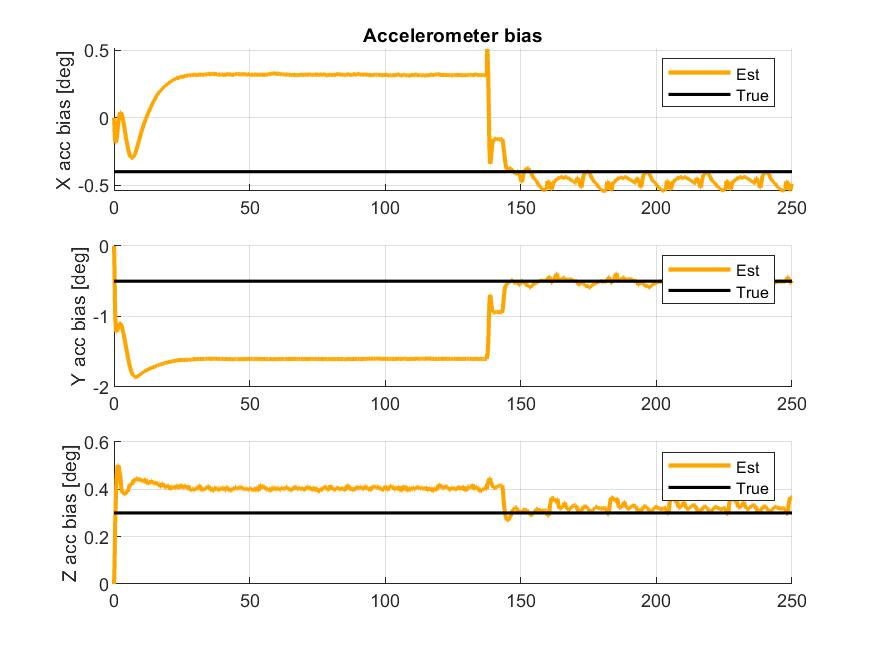
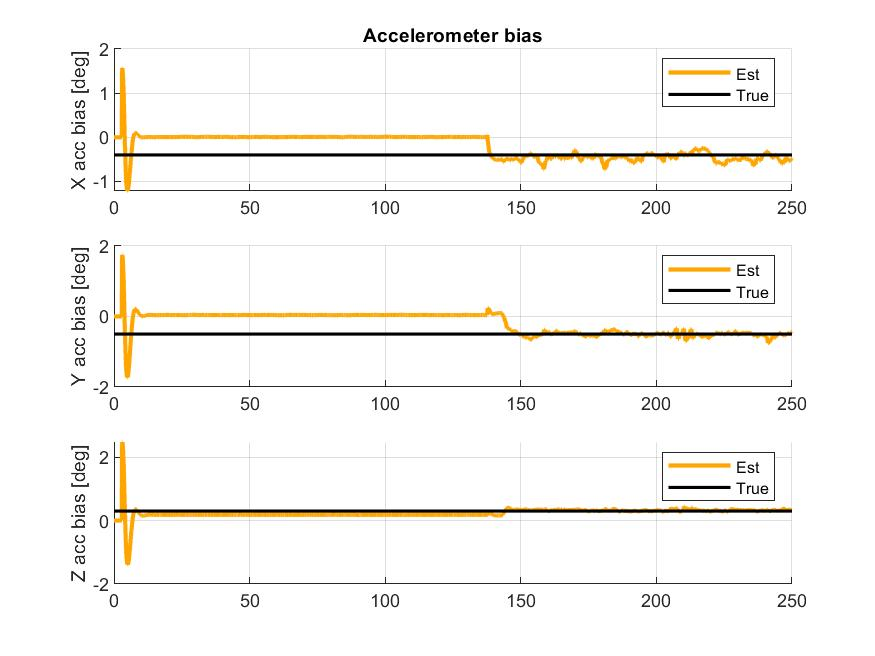
Make function for chi-square test

diff --git a/ESKF/ErrorStateKalman_sola.m b/ESKF/ErrorStateKalman_sola.m
@@ -131,7 +131,6 @@ function [delta_x, E] = ErrorStateKalman_sola(f_b_ins, race_started, r_b_1, r_b_
           H_acc = [Z3  Z3  I3  -Smtrx(R_nb_hat' * g_n_nb)  Z3  Z3];              
 %           H_acc = [Z3  Z3  Z3  Z3  Z3  Z3]; 
 
-          % Ground Speed           
           H_gss_pos = [ 0, 0, 0];
           H_gss_vel = [(R_nb_hat(1,2)*(R_nb_hat(1,2)*v_n_ins(1) + R_nb_hat(2,2)*v_n_ins(2) + R_nb_hat(3,2)*v_n_ins(3) - bars_b_ins(2)*r_b_3(1) + bars_b_ins(1)*r_b_3(3) - omega_b_imu(1)*r_b_3(3) + omega_b_imu(3)*r_b_3(1)) + R_nb_hat(1,1)*(R_nb_hat(1,1)*v_n_ins(1) + R_nb_hat(1,3)*v_n_ins(2) + R_nb_hat(2,3)*v_n_ins(3) + bars_b_ins(2)*r_b_3(2) - bars_b_ins(2)*r_b_3(3) + omega_b_imu(2)*r_b_3(3) - omega_b_imu(3)*r_b_3(2)))/((R_nb_hat(1,2)*v_n_ins(1) + R_nb_hat(2,2)*v_n_ins(2) + R_nb_hat(3,2)*v_n_ins(3) - bars_b_ins(2)*r_b_3(1) + bars_b_ins(1)*r_b_3(3) - omega_b_imu(1)*r_b_3(3) + omega_b_imu(3)*r_b_3(1))^2 + (R_nb_hat(1,1)*v_n_ins(1) + R_nb_hat(1,3)*v_n_ins(2) + R_nb_hat(2,3)*v_n_ins(3) + bars_b_ins(2)*r_b_3(2) - bars_b_ins(2)*r_b_3(3) + omega_b_imu(2)*r_b_3(3) - omega_b_imu(3)*r_b_3(2))^2)^(1/2), (R_nb_hat(2,2)*(R_nb_hat(1,2)*v_n_ins(1) + R_nb_hat(2,2)*v_n_ins(2) + R_nb_hat(3,2)*v_n_ins(3) - bars_b_ins(2)*r_b_3(1) + bars_b_ins(1)*r_b_3(3) - omega_b_imu(1)*r_b_3(3) + omega_b_imu(3)*r_b_3(1)) + R_nb_hat(1,3)*(R_nb_hat(1,1)*v_n_ins(1) + R_nb_hat(1,3)*v_n_ins(2) + R_nb_hat(2,3)*v_n_ins(3) + bars_b_ins(2)*r_b_3(2) - bars_b_ins(2)*r_b_3(3) + omega_b_imu(2)*r_b_3(3) - omega_b_imu(3)*r_b_3(2)))/((R_nb_hat(1,2)*v_n_ins(1) + R_nb_hat(2,2)*v_n_ins(2) + R_nb_hat(3,2)*v_n_ins(3) - bars_b_ins(2)*r_b_3(1) + bars_b_ins(1)*r_b_3(3) - omega_b_imu(1)*r_b_3(3) + omega_b_imu(3)*r_b_3(1))^2 + (R_nb_hat(1,1)*v_n_ins(1) + R_nb_hat(1,3)*v_n_ins(2) + R_nb_hat(2,3)*v_n_ins(3) + bars_b_ins(2)*r_b_3(2) - bars_b_ins(2)*r_b_3(3) + omega_b_imu(2)*r_b_3(3) - omega_b_imu(3)*r_b_3(2))^2)^(1/2), (R_nb_hat(3,2)*(R_nb_hat(1,2)*v_n_ins(1) + R_nb_hat(2,2)*v_n_ins(2) + R_nb_hat(3,2)*v_n_ins(3) - bars_b_ins(2)*r_b_3(1) + bars_b_ins(1)*r_b_3(3) - omega_b_imu(1)*r_b_3(3) + omega_b_imu(3)*r_b_3(1)) + R_nb_hat(2,3)*(R_nb_hat(1,1)*v_n_ins(1) + R_nb_hat(1,3)*v_n_ins(2) + R_nb_hat(2,3)*v_n_ins(3) + bars_b_ins(2)*r_b_3(2) - bars_b_ins(2)*r_b_3(3) + omega_b_imu(2)*r_b_3(3) - omega_b_imu(3)*r_b_3(2)))/((R_nb_hat(1,2)*v_n_ins(1) + R_nb_hat(2,2)*v_n_ins(2) + R_nb_hat(3,2)*v_n_ins(3) - bars_b_ins(2)*r_b_3(1) + bars_b_ins(1)*r_b_3(3) - omega_b_imu(1)*r_b_3(3) + omega_b_imu(3)*r_b_3(1))^2 + (R_nb_hat(1,1)*v_n_ins(1) + R_nb_hat(1,3)*v_n_ins(2) + R_nb_hat(2,3)*v_n_ins(3) + bars_b_ins(2)*r_b_3(2) - bars_b_ins(2)*r_b_3(3) + omega_b_imu(2)*r_b_3(3) - omega_b_imu(3)*r_b_3(2))^2)^(1/2)];
           H_gss_bacc = [0, 0, 0]; 
@@ -142,27 +141,36 @@ function [delta_x, E] = ErrorStateKalman_sola(f_b_ins, race_started, r_b_1, r_b_
           H_gss = [H_gss_pos  H_gss_vel  H_gss_bacc  H_gss_att  H_gss_bars  H_gss_g];
           
           
-          
         std_pos = 2;
-        R_pos = std_pos^2*I3;
+        R_pos1 = std_pos^2*I3;
+        R_pos2 = std_pos^2*I3;
+        R_vec = 20*std_pos^2*I3;
         std_att = 1 * deg2rad;
         R_att = std_att^2*I3;
         std_vel = 1;
-        R_vel = std_vel^2*I3;
+        R_vel = std_vel^2;
         std_acc = 1;
         R_acc = std_acc^2*I3;
-        R = blkdiag(R_pos , R_pos, std_vel^2, 2*R_pos, R_acc);
+        R = blkdiag(R_pos1 , R_pos2, std_vel^2, R_vec, R_acc);
+          
+           % Outlier Rejection
+          [~,H_gnss1] = ChiSquareTest(H_gnss1, P_hat, R_pos1, delta_y(1:3));
+          [~,H_gnss2] = ChiSquareTest(H_gnss2, P_hat, R_pos2, delta_y(4:6));
+          [~,H_gss] = ChiSquareTest(H_gss, P_hat, R_vel, delta_y(7));
+          [~,H_vec] = ChiSquareTest(H_vec, P_hat, R_vec, delta_y(8:10));
+          [~,H_acc] = ChiSquareTest(H_acc, P_hat, R_acc, delta_y(11:13)); 
+          
           
           if (~race_started)
             H = [H_gnss1 ; H_gnss2 ; H_vec ; H_acc];
-            R = blkdiag(R_pos , R_pos, 2*R_pos, R_acc);
+            R = blkdiag(R_pos1 , R_pos2, R_vec, R_acc);
             delta_y(7) = []; % delete gss 
 %             H_gss = zeros(1,18);
 %             H_acc = [Z3  Z3  I3  -Smtrx(R_nb_hat' * g_n_nb)  Z3  -R_nb_hat'];
 %             H_acc = [Z3  Z3  I3  -Smtrx(R_nb_hat' * g_n_nb)  Z3  Z3];    
           else
             H = [H_gnss1 ; H_gnss2 ; H_gss ; H_vec];
-            R = blkdiag(R_pos , R_pos, std_vel^2, 2*R_pos);
+            R = blkdiag(R_pos1 , R_pos2, R_vel, R_vec);
             delta_y(11:13) = []; % delete acc 
           end 
           

diff --git a/ESKF/MESKF_sola.m b/ESKF/MESKF_sola.m
@@ -158,7 +158,7 @@ for k = 1:N
         
         
         % Moving baseline
-        y_vec = R_nb_t * (r_b_2 - r_b_1);
+        y_vec = R_nb_t * (r_b_2 - r_b_1) + 1*randn(1)*[5,1,1]';
         y_vec_hat = R_nb_ins * (r_b_2 - r_b_1);
         
         % Stand-still acceleration
@@ -190,7 +190,7 @@ for k = 1:N
         x_ins(1:9) = x_ins(1:9) + delta_x(1:9);
         x_ins(14:16) = x_ins(14:16) + delta_x(13:15);
         g_n_hat = g_n_hat + delta_x(16:18);
-        disp(delta_x(16:18));
+%         disp(delta_x(16:18));
         h_low = 1/10;
         q_delta_omega = qbuild(delta_x(10:12)/h_low, h_low);
         x_ins(10:13) = quatprod(x_ins(10:13), q_delta_omega);
@@ -233,7 +233,7 @@ plot(time, p_n_nb(3,:),'Color', 'black', 'Linewidth', 1.5);
 ylabel('Z position [m]')
 legend('Est', 'True');
 grid on;
-saveas(gcf,'results_gnss-vec/Position.jpeg')
+saveas(gcf,'results/Position.jpeg')
 
 % POSITION ERROR
 figure(2)
@@ -259,7 +259,7 @@ plot(time, p_n_nb(3,:) - ins_data(3,:) ,'Color', [0.6350, 0.0780, 0.1840], 'Line
 ylabel('Z position [m]')
 legend('Error');
 grid on;
-saveas(gcf,'results_gnss-vec/PositionError.jpeg')
+saveas(gcf,'results/PositionError.jpeg')
 
 
 % VELOCITIES
@@ -289,7 +289,7 @@ plot(time, v_n_nb(3,:),'Color', 'black', 'Linewidth', 1.5);
 ylabel('Z velocity [m]')
 legend('Est', 'True');
 grid on;
-saveas(gcf,'results_gnss-vec/Velocity.jpeg')
+saveas(gcf,'results/Velocity.jpeg')
 
 % VELOCITY ERROR
 figure(4)
@@ -315,7 +315,7 @@ plot(time, v_n_nb(3,:) - ins_data(6,:) ,'Color', [0.6350, 0.0780, 0.1840], 'Line
 ylabel('Z velocity [m/s]')
 legend('Error');
 grid on;
-saveas(gcf,'results_gnss-vec/VelocityError.jpeg')
+saveas(gcf,'results/VelocityError.jpeg')
 
 
 
@@ -346,7 +346,7 @@ plot(time, bacc_b_nb(3,:),'Color', 'black', 'Linewidth', 1.5);
 ylabel('Z acc bias [deg]')
 legend('Est', 'True');
 grid on;
-saveas(gcf,'results_gnss-vec/AccelBiast.jpeg')
+saveas(gcf,'results/AccelBiast.jpeg')
 
 
 % ACCEL BIAS ERROR
@@ -373,7 +373,7 @@ plot(time, bacc_b_nb(3,:) - ins_data(9,:) ,'Color', [0.6350, 0.0780, 0.1840], 'L
 ylabel('Z accel bias [m/s^2]')
 legend('Error');
 grid on;
-saveas(gcf,'results_gnss-vec/AccelBiasError.jpeg')
+saveas(gcf,'results/AccelBiasError.jpeg')
 
 
 
@@ -405,7 +405,7 @@ xlabel('Time [s]');
 ylabel('Yaw angle [deg]')
 legend('Est', 'True');
 grid on;
-saveas(gcf,'results_gnss-vec/Attitude.jpeg')
+saveas(gcf,'results/Attitude.jpeg')
 
 
 % ATTITUDE ERROR
@@ -432,7 +432,7 @@ plot(time, ssa(rad2deg*att_n_nb(3,:) - rad2deg*ins_data(12,:),'deg') ,'Color', [
 ylabel('Yaw angle [deg]')
 legend('Error');
 grid on;
-saveas(gcf,'results_gnss-vec/AttitudeError.jpeg')
+saveas(gcf,'results/AttitudeError.jpeg')
 
 
 
@@ -463,7 +463,7 @@ plot(time, bars_b_nb(3,:),'Color', 'black', 'Linewidth', 1.5);
 ylabel('Yaw bias [deg/s]')
 legend('Est', 'True');
 grid on;
-saveas(gcf,'results_gnss-vec/GyroBias.jpeg')
+saveas(gcf,'results/GyroBias.jpeg')
 
 % GYRA BIAS ERROR
 figure(10)
@@ -489,7 +489,7 @@ plot(time, rad2deg*(bars_b_nb(3,:) - ins_data(15,:)) ,'Color', [0.6350, 0.0780, 
 ylabel('Yaw bias [deg/s]')
 legend('Error');
 grid on;
-saveas(gcf,'results_gnss-vec/GyroBiasError.jpeg')
+saveas(gcf,'results/GyroBiasError.jpeg')
 
 
 % % Accelerometer input
@@ -574,7 +574,7 @@ ylabel('gravity err Z [m/s^2]')
 legend('Estimated');
 grid on;
 
-saveas(gcf,'results_gnss-vec/GravityErrorState.jpeg')
+saveas(gcf,'results/GravityErrorState.jpeg')
 
 % Position map
 figure(14)
@@ -589,4 +589,4 @@ ylabel('X position [m]');
 title('Position Plot');
 legend('True', 'Estimated');
 grid on;
-saveas(gcf,'results_gnss-vec/PositionMap.jpeg')
+saveas(gcf,'results/PositionMap.jpeg')

diff --git a/ESKF/ChiSquareTest.m b/ESKF/ChiSquareTest.m
@@ -1,0 +1,27 @@
+function [isOutlier,H_out] = ChiSquareTest(H_in,P_hat, R, delta_y)
+%CHISQUARETEST Summary of this function goes here
+%   Detailed explanation goes here
+thresh = 0;
+dim = length(delta_y); 
+
+% Threshold corresponds to a confidence interval of 95%
+if (dim == 1)
+    thresh = 3.841;
+elseif (dim == 2)
+    thresh = 5.991;
+elseif (dim == 3)
+    thresh = 7.815;
+end
+
+S = H_in * P_hat * H_in' + R;
+T = delta_y' * (S^(-1)) * delta_y;
+if (T > thresh) 
+    isOutlier = true;
+    H_out = zeros(dim,18);
+else
+    isOutlier = false;
+    H_out = H_in;
+end
+
+end
+
